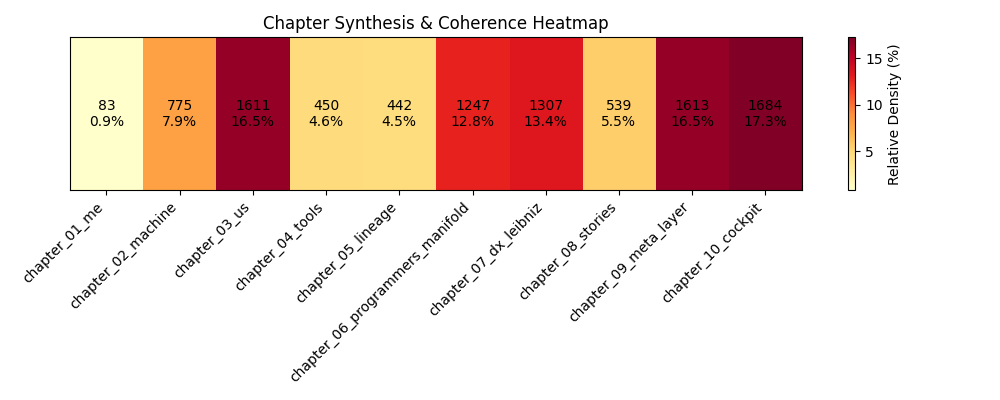
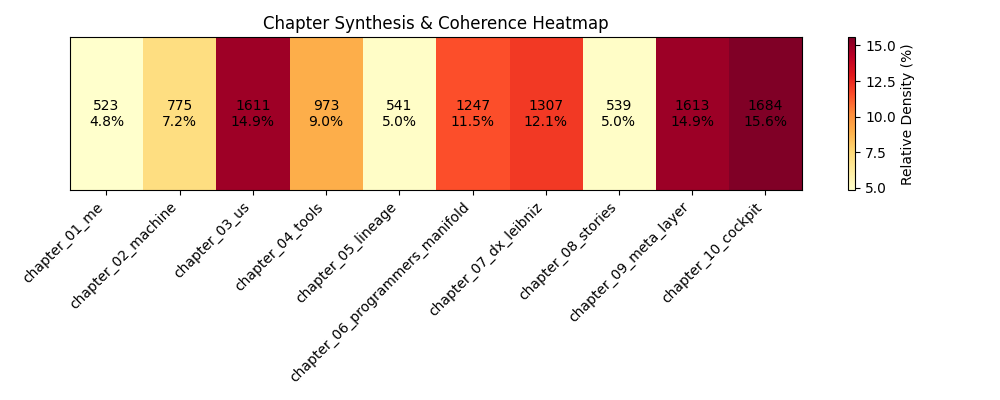
Update: run heatmap and summary statistics, restore chapter 1, sync all outputs

diff --git a/book/analysis_throughput/chapters_heatmap.md b/book/analysis_throughput/chapters_heatmap.md
@@ -1,14 +1,14 @@
 | Chapter | Word Count | % of Total | Heatmap |
 |------------------------|------------|------------|---------|
-| chapter_01_me          |         83 |        0.9% |         |
-| chapter_02_machine     |        775 |        7.9% | ███     |
-| chapter_03_us          |       1611 |       16.5% | ██████  |
-| chapter_04_tools       |        450 |        4.6% | ██      |
-| chapter_05_lineage     |        442 |        4.5% | ██      |
-| chapter_06_programmers_manifold |       1247 |       12.8% | ████    |
-| chapter_07_dx_leibniz  |       1307 |       13.4% | █████   |
-| chapter_08_stories     |        539 |        5.5% | ██      |
-| chapter_09_meta_layer  |       1613 |       16.5% | ██████  |
-| chapter_10_cockpit     |       1684 |       17.3% | ██████  |
+| chapter_01_me          |        523 |        4.8% | ██      |
+| chapter_02_machine     |        775 |        7.2% | ███     |
+| chapter_03_us          |       1611 |       14.9% | ██████  |
+| chapter_04_tools       |        973 |        9.0% | ███     |
+| chapter_05_lineage     |        541 |        5.0% | ██      |
+| chapter_06_programmers_manifold |       1247 |       11.5% | ████    |
+| chapter_07_dx_leibniz  |       1307 |       12.1% | █████   |
+| chapter_08_stories     |        539 |        5.0% | ██      |
+| chapter_09_meta_layer  |       1613 |       14.9% | ██████  |
+| chapter_10_cockpit     |       1684 |       15.6% | ██████  |
 
-Total words: 9751
+Total words: 10813
